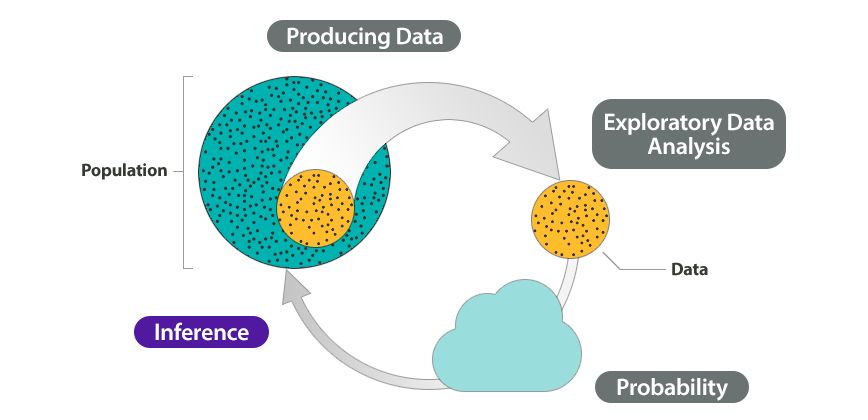
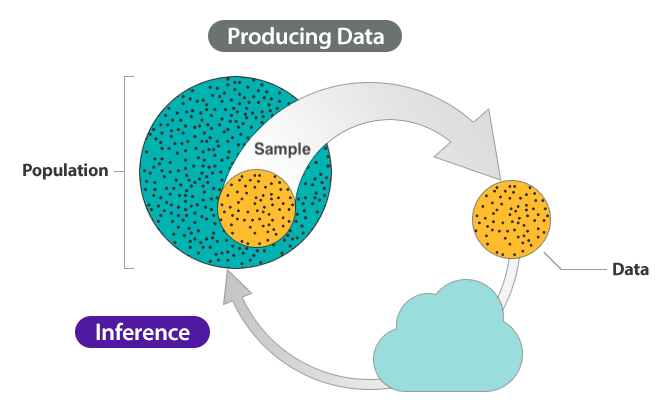
♻ - edit slides

diff --git a/index.html b/index.html
@@ -37,7 +37,11 @@ class: inverse
 
 Stefano [ˈstefano]/[ˈstɛfnəʊ]
 
+PhD in Linguistics from the University of Manchester (speech production, ultrasound tongue imaging, electroglottography).
 
+Post-doc at the Institute for Phonetics in Munich, Germany.
+
+Now the Senior Teaching Coordinator for Stats at LEL.
 
 ---
 
@@ -87,18 +91,59 @@ How does the process look like?
 
 ---
 
-# Inference
+# Empirical method 
 
 .center[
-![](img/inference.png)
+![:scale 40%](img/bro.png)
 ]
 
 ???
 
-We want to answer a question about something.
+We have a question about something.
 
-From observation to an answer using inference.
+Let's imagine that this something is the population of British Sign Language signers.
 
+We want to know whether the cultural background of the BSL signers is linked to different pragmatic uses of the sign for BROTHER.
+
+But we can't survey the entire population of BSL signers.
+
+NOTE: *Population* can be a set of anything, not just a specific group of people. For example, the words in a dictionary can be a "population"; or the antipassive constructions of Austronesian languages; or ...
+
+---
+
+# Empirical method 
+
+.center[
+![:scale 75%](img/inference.png)
+]
+
+???
+
+We take a **sample** from the population.
+
+This is our empirical data (the product of observation).
+
+How do we go from data/observation to answering our question?
+
+We can use **inference**.
+
+**Inference** is the process of understanding something about a population based on the sample (aka the data) taken from that population.
+
+From sample/data to population.
+
+---
+
+class: middle center inverse
+
+# Inference is not infallible
+
+???
+
+Inference based on data does not guarantee the answer to our questions are right/true.
+
+In fact, any observation we make comes with a degree of **uncertainty and variability**.
+
+EXTRA: Check out this article: &lt;https://www.scientificamerican.com/article/if-you-say-science-is-right-youre-wrong/&gt;
 
 ---
 
@@ -106,7 +151,10 @@ class: inverse
 
 # Uncertainty and variability
 
-.center[&lt;a href="https://www.azquotes.com/quote/827060" title="Pliny the Elder quote"&gt;&lt;img src="//www.azquotes.com/picture-quotes/quote-the-only-certainty-is-uncertainty-pliny-the-elder-82-70-60.jpg" alt="The only certainty is uncertainty - Pliny the Elder"&gt;&lt;/a&gt;]
+
+.center[
+![](img/pliny.jpg)
+]
 
 ???
 
@@ -150,11 +198,17 @@ Dealing with variability among observations of the same phenomenon.
 
 ---
 
-# But... All that glisters is not gold
+class: middle
 
-Statistics can be misused.
+.pull-left[
+.f1[But... "all that glisters is not gold"]
+]
 
-Science Apocalypse
+.pull-right[
+![](img/gollum-statistician.png)
+]
+
+
 
 ---
 
@@ -167,6 +221,12 @@ Replicability
 Generalisability
 
 (Robustness)
+
+---
+
+class: center middle inverse
+
+# BREAK
 
 ---
 
